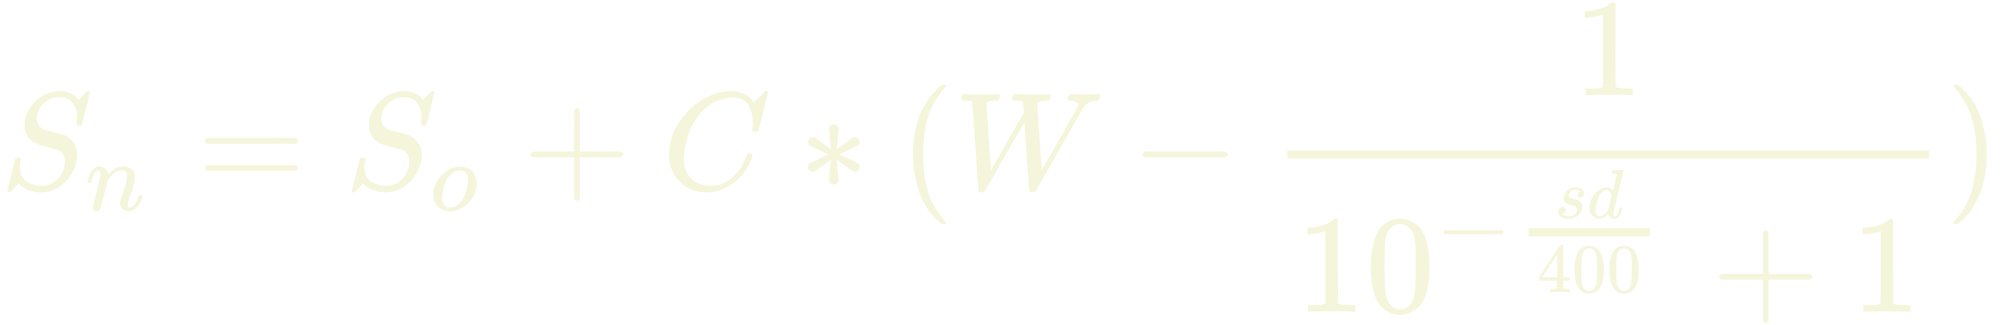
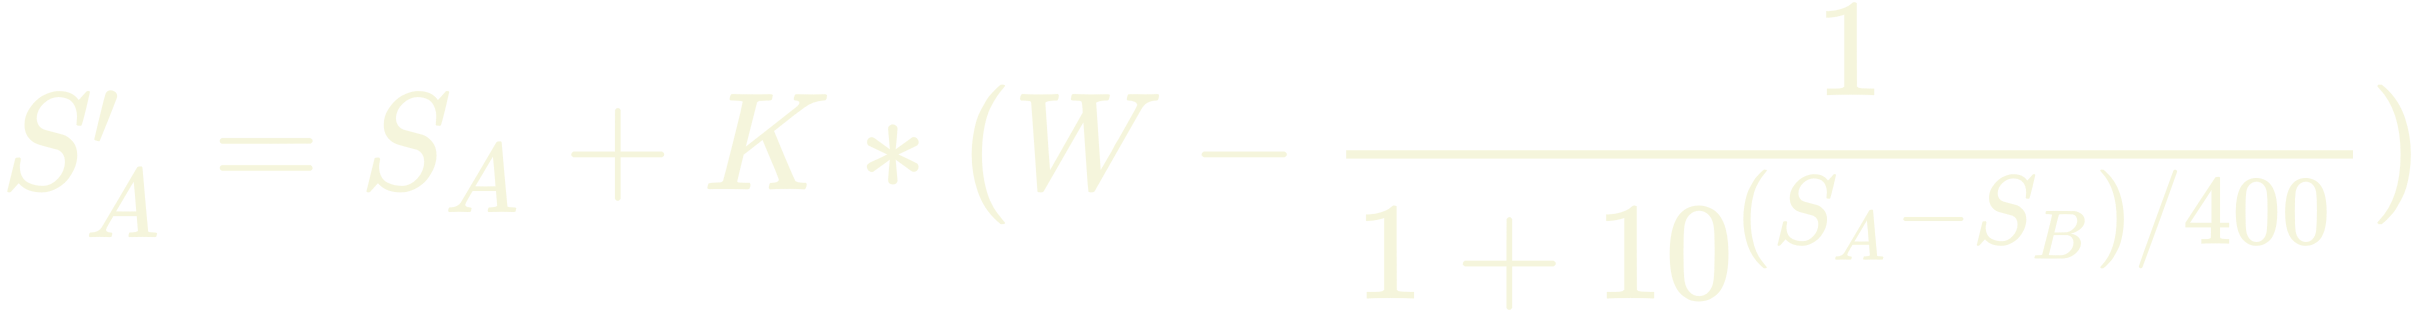
Improve formula

Changed region(s): [[0.0, 0.2885, 0.558, 0.7788], [0.558, 0.4615, 1.0, 0.9808], [0.744, 0.0288, 0.837, 0.3173]]

diff --git a/src/components/ReleaseNotesMarch2021/index.js b/src/components/ReleaseNotesMarch2021/index.js
@@ -288,15 +288,16 @@ export default React.memo(function ReleaseNotesMarch2021(props) {
         <hr />
 
         <p>
-          The formula used to determine the new Hero Score (named{' '}
-          <var className='Highlight'>
-            S<sub>n</sub>
-          </var>
-          ) from the old Hero Score ( named{' '}
-          <var className='Highlight'>
-            S<sub>o</sub>
-          </var>
-          ) at the end of a ranked battle goes as follow:
+          The formula used to update a player A’s Hero Score (<var>S</var>) is a
+          variation of the{' '}
+          <a
+            href='https://en.wikipedia.org/wiki/Elo_rating_system'
+            target='_blank'
+            rel='noopener noreferrer'
+          >
+            Elo rating system
+          </a>{' '}
+          used in chess, amongst other games. It looks like this:
         </p>
 
         <img
@@ -309,30 +310,50 @@ export default React.memo(function ReleaseNotesMarch2021(props) {
         <ul style={{ marginBottom: '3em' }}>
           <li>
             <var className='Highlight'>
-              S<sub>n</sub>
+              S'<sub>A</sub>
             </var>{' '}
             is the new Hero Score
           </li>
           <li>
             <var className='Highlight'>
-              S<sub>o</sub>
+              S<sub>A</sub>
             </var>{' '}
-            is the old Hero Score
+            is the current Hero Score
           </li>
           <li>
-            <var className='Highlight'>C</var> is the coefficient factor: it is
-            worth 40 for new players until they have played 30 matches in
-            Diamond, 20 for players rated below 2400, and 10 for players who
-            ever reached 2400, regardless of their current Hero Score
+            <var className='Highlight'>K</var> is the coefficient factor
+            (sometimes named “K-factor” in elo rating systems) and works like in
+            FIDE:
+            <ul style={{ marginBottom: 0 }}>
+              <li>
+                K = 40 for new players until they have played 30 matches in
+                Diamond
+              </li>
+              <li>K = 20 for players rated below 2400</li>
+              <li>
+                K = 10 for players who ever reached 2400, regardless of their
+                current Hero Score
+              </li>
+            </ul>
           </li>
           <li>
             <var className='Highlight'>W</var> is either 1 in case of a win, 0
             for a loss
           </li>
           <li>
-            <var className='Highlight'>sd</var> is the difference between the
-            two player’s Hero Score and is capped to 400 to avoid causing too
-            much fluctuations in case of uneven matchmaking
+            <var className='Highlight'>
+              S<sub>B</sub>
+            </var>{' '}
+            is the opponent’s score; the difference between{' '}
+            <var className='Highlight'>
+              S<sub>A</sub>
+            </var>{' '}
+            and{' '}
+            <var className='Highlight'>
+              S<sub>B</sub>
+            </var>{' '}
+            is capped to 400 to avoid causing too much fluctuations in case of
+            uneven matchmaking
           </li>
         </ul>
 

diff --git a/src/components/HeroScoreCalculator/index.js b/src/components/HeroScoreCalculator/index.js
@@ -46,33 +46,53 @@ const HeroScoreCalculator = props => {
 
           <p>Here are the terms:</p>
 
-          <ul>
+          <ul style={{ marginBottom: '3em' }}>
             <li>
               <var className='Highlight'>
-                S<sub>n</sub>
+                S'<sub>A</sub>
               </var>{' '}
               is the new Hero Score
             </li>
             <li>
               <var className='Highlight'>
-                S<sub>o</sub>
+                S<sub>A</sub>
               </var>{' '}
-              is the old Hero Score
+              is the current Hero Score
             </li>
             <li>
-              <var className='Highlight'>C</var> is the coefficient factor: it
-              is worth 40 for new players until they have played 30 matches in
-              Diamond, 20 for players rated below 2400, and 10 for players who
-              ever reached 2400, regardless of their current Hero Score
+              <var className='Highlight'>K</var> is the coefficient factor
+              (sometimes named “K-factor” in elo rating systems) and works like
+              in FIDE:
+              <ul style={{ margin: '0.5em 0' }}>
+                <li>
+                  K = 40 for new players until they have played 30 matches in
+                  Diamond
+                </li>
+                <li>K = 20 for players rated below 2400</li>
+                <li>
+                  K = 10 for players who ever reached 2400, regardless of their
+                  current Hero Score
+                </li>
+              </ul>
             </li>
             <li>
               <var className='Highlight'>W</var> is either 1 in case of a win, 0
               for a loss
             </li>
             <li>
-              <var className='Highlight'>sd</var> is the difference between the
-              two player’s Hero Score and is capped to 400 to avoid causing too
-              much fluctuations in case of uneven matchmaking
+              <var className='Highlight'>
+                S<sub>B</sub>
+              </var>{' '}
+              is the opponent’s score; the difference between{' '}
+              <var className='Highlight'>
+                S<sub>A</sub>
+              </var>{' '}
+              and{' '}
+              <var className='Highlight'>
+                S<sub>B</sub>
+              </var>{' '}
+              is capped to 400 to avoid causing too much fluctuations in case of
+              uneven matchmaking
             </li>
           </ul>
         </Row.Column>

diff --git a/src/helpers/getHeroScore/index.js b/src/helpers/getHeroScore/index.js
@@ -1,12 +1,12 @@
-const getHeroScore = ({ current, opponent, coefficient, won }) => {
-  const Ro = current
-  const K = Number(coefficient)
-  const W = Number(won)
-  const dr = Math.min(Ro - opponent, 400)
-  const We = 1 / (Math.pow(10, -1 * (dr / 400)) + 1)
-  const Rn = Ro + K * (W - We)
+// Essentially a take on FIDE’s elo rating system.
+// See: https://en.wikipedia.org/wiki/Elo_rating_system
+const getHeroScore = ({ current: Sa, opponent: Sb, coefficient: K, won }) => {
+  // This is the difference between the two players’ score, capped at 400 to
+  // avoid too much fluctuation in case of uneven matchmaking.
+  const diff = Math.min(won ? Sa - Sb : Sb - Sa, 400)
+  const deviation = 1 / (1 + 10 ** (diff / 400))
 
-  return Rn
+  return Sa + K * deviation * (won ? 1 : -1)
 }
 
 export default getHeroScore

diff --git a/src/helpers/getHeroScore/spec.js b/src/helpers/getHeroScore/spec.js
@@ -1,7 +1,7 @@
 import getHeroScore from './'
 
 const CASES = [
-  // Current, Opponent, Coefficient, Won -> New
+  // [Current, Opponent, Coefficient, Won] -> New
   [[1000, 1000, 40, true], 1020],
   [[1000, 1000, 40, false], 980],
   [[2000, 2300, 40, true], 2033.960818],
@@ -9,6 +9,9 @@ const CASES = [
   [[2800, 2400, 10, true], 2800.909091],
   [[2400, 2800, 10, false], 2399.090909],
   [[4000, 1, 40, true], 4003.636364],
+  [[1, 4000, 10, false], 0.09090909091],
+  [[1000, 0, 40, true], 1003.636364],
+  [[0, 1000, 40, false], -3.636363636],
 ]
 
 describe.only('The `getHeroScore` helper', () => {

diff --git a/bin/formula.js b/bin/formula.js
@@ -37,7 +37,7 @@ MathJax.start()
 typeset(
   {
     math:
-      '\\color{beige}S_n = S_o + C * (W - \\frac{1}{10^{-\\frac{sd}{400}}+1})',
+      "\\color{beige}S'_A = S_A + K * (W - \\frac{1}{1+10^{(S_A-S_B)/400}})",
     format: 'TeX',
     png: true,
     scale: 1,
